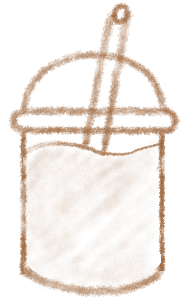
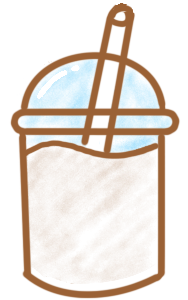
added ice

Changed region(s): [[0.0532, 0.0, 0.9574, 1.0]]

diff --git a/main.py b/main.py
@@ -131,9 +131,10 @@ async def main():
         return total
 
     def draw_hand_preview(preview=None, show_info=True):
-        # webcam preview (top right by default) with the tracked hands drawn on top
+        # webcam preview (left side, under the money, by default) with the tracked hands drawn on top
+        # kept on the left so it never covers the cups, the C note or the tea jars on the right
         if preview is None:
-            preview = pygame.Rect(SCREEN_WIDTH - 340, 16, 320, 240)
+            preview = pygame.Rect(20, 104, 256, 192)
         pygame.draw.rect(screen, (148, 90, 45), preview.inflate(10, 10), border_radius=12)
         screen.blit(pygame.transform.scale(camera_image, preview.size), preview)
         scale_x = preview.width / camera_size[0]
@@ -159,7 +160,7 @@ async def main():
             return
 
         # what the number picks + hold progress bar, under the preview
-        info = pygame.Rect(preview.left - 5, preview.bottom + 10, preview.width + 10, 64)
+        info = pygame.Rect(preview.left - 5, preview.bottom + 12, 430, 60)
         pygame.draw.rect(screen, (255, 250, 238), info, border_radius=10)
         pygame.draw.rect(screen, (148, 90, 45), info, 3, border_radius=10)
         if picking_toppings():
@@ -175,7 +176,7 @@ async def main():
             text = "toppings done! serve [S]"
         else:
             text = "waiting for a customer..."
-        label = key_font.render(text, True, (110, 62, 30))
+        label = tag_font.render(text, True, (110, 62, 30))
         screen.blit(label, label.get_rect(midtop=(info.centerx, info.top + 8)))
         bar = pygame.Rect(info.left + 14, info.bottom - 22, info.width - 28, 12)
         pygame.draw.rect(screen, (230, 215, 190), bar, border_radius=6)
@@ -219,9 +220,11 @@ async def main():
         # happy = right base + right toppings in the right order
         # meh   = right base, but toppings in the wrong order (or only some toppings right)
         # angry = wrong base, or none of the toppings right
+        # ice: getting ice wrong turns a perfect drink into "meh"
         correct_base = selected_base == current_base
+        correct_ice = ice_added == current_ice
         if correct_base and selected_toppings == current_order:
-            return "happy"
+            return "happy" if correct_ice else "meh"
         if correct_base and set(selected_toppings) == set(current_order):
             return "meh"
         if correct_base and any(name in current_order for name in selected_toppings):
@@ -234,9 +237,9 @@ async def main():
 
     def serve_drink():
         # MONEY ONLY CHANGES HERE: happy = full price, meh = half, angry = you lose half (wasted ingredients)
-        nonlocal money, customer_reacting, reaction_timer, last_mood, money_popup_text, money_popup_timer, status
+        nonlocal money, customer_reacting, reaction_timer, last_mood, money_popup_text, money_popup_timer
         nonlocal cup_shown, selected_base, served_base, served_toppings, served_timer
-        nonlocal won
+        nonlocal ice_added, served_ice
         last_mood = get_mood()
         total = order_total()
         if last_mood == "happy":
@@ -247,8 +250,6 @@ async def main():
         else:
             change = -(total // 2)
         money += change
-        if money >= 100:
-            won = True
         money_popup_text = ("+$" if change >= 0 else "-$") + str(abs(change))
         money_popup_timer = 0
         customer.image = CUSTOMERS[customer.name].get(last_mood, CUSTOMERS[customer.name]["default"])
@@ -257,10 +258,12 @@ async def main():
         # the drink is handed over: it leaves the counter, press C for a new cup
         served_base = selected_base
         served_toppings = list(selected_toppings)
+        served_ice = ice_added
         served_timer = 0
         cup_shown = False
         selected_base = None
         selected_toppings.clear()
+        ice_added = False
 
     def draw_ui_button(name, rect, text, key_text, fill, text_colour, mouse_pos):
         # rounded button with a drop shadow, lifts and brightens a little on hover
@@ -346,7 +349,7 @@ async def main():
         t -= 2.625 / 2.75
         return 7.5625 * t * t + 0.984375
 
-    def draw_cup(base, cup_toppings, bottom_middle, size, alpha):
+    def draw_cup(base, cup_toppings, bottom_middle, size, alpha, ice=False):
         # one cup with its base and toppings, plus a soft shadow so it stands out from the board
         picture = cup_image if base is None else BASES[base]["image"]
         width = max(1, int(picture.get_width() * size))
@@ -362,10 +365,40 @@ async def main():
                 t = (pygame.time.get_ticks() - topping_drop_start[name]) / 600
                 drop = int((1 - ease_out_bounce(t)) * 110)
             layers.append((TOPPINGS[name]["image"], drop))
+        if ice:
+            # ice drops in last, on top, with the same bounce
+            t = (pygame.time.get_ticks() - ice_drop_start) / 600
+            layers.append((ice_image, int((1 - ease_out_bounce(t)) * 110)))
         for image, drop in layers:
             scaled = pygame.transform.smoothscale(image, (max(1, int(image.get_width() * size)), max(1, int(image.get_height() * size))))
             scaled.set_alpha(alpha)
             screen.blit(scaled, scaled.get_rect(midbottom=(bottom_middle[0], bottom_middle[1] - drop)))
+
+    def get_cup():
+        # C key or clicking the cup stacks
+        nonlocal cup_shown, cup_timer
+        if not cup_shown:
+            cup_shown = True
+            cup_timer = 0
+
+    def toggle_ice():
+        # I key or clicking the ice bucket: adds ice, or takes it back out if it's already in
+        nonlocal ice_added, ice_drop_start
+        if cup_shown:
+            ice_added = not ice_added
+            ice_drop_start = pygame.time.get_ticks()
+
+    def draw_counter_highlight(zone, text, mouse_pos):
+        # same soft highlight as the base jars, with the name + key above
+        if zone.collidepoint(mouse_pos):
+            highlight = pygame.Surface(zone.size, pygame.SRCALPHA)
+            pygame.draw.rect(highlight, (255, 255, 255, 70), highlight.get_rect(), border_radius=14)
+            screen.blit(highlight, zone)
+            pygame.draw.rect(screen, (148, 90, 45), zone, 3, border_radius=14)
+            label = tag_font.render(text, True, (255, 250, 238))
+            tag = label.get_rect(midbottom=(zone.centerx, zone.top - 8)).inflate(16, 8)
+            pygame.draw.rect(screen, (148, 90, 45), tag, border_radius=8)
+            screen.blit(label, label.get_rect(center=tag.center))
 
     def dialogue_done_typing():
         return dialogue_timer * TYPE_SPEED >= len(dialogue_text)
@@ -431,6 +464,8 @@ async def main():
                 lines.append((str(number) + ". " + TOPPING_NAMES[name], False))
         else:
             lines.append(("none", False))
+        lines.append(("------- Ice -------", True))
+        lines.append(("with ice" if current_ice else "no ice", False))
         lines.append(("------ Total ------", True))
         lines.append(("$" + str(order_total()), False))
         line_height = receipt_font.get_linesize()
@@ -488,7 +523,7 @@ async def main():
         label.set_alpha(alpha)
         screen.blit(label, label.get_rect(center=(rect.centerx - 4, rect.centery - 4)))
 
-    # STORY FLOW cutscene frames -> tutorial -> game
+    # STORY FLOW (Sophia): cutscene frames -> tutorial (placeholder) -> game
     def next_story_screen():
         nonlocal status, cutscene_index
         if status == "tutorial":
@@ -518,10 +553,11 @@ async def main():
         return random.sample(available_toppings, number)    # the order of this list matters
 
     def new_customer():
-        nonlocal customer, current_order, current_base, selected_base
+        nonlocal customer, current_order, current_base, selected_base, current_ice
 
         name = random.choice(list(CUSTOMERS.keys()))
         current_base = random.choice(list(BASES.keys()))
+        current_ice = random.choice([True, False])     # ICE (Sophia): with ice or no ice
         selected_base = None
         current_order = generate_order()
         customer = Customer(name, current_order, current_base)
@@ -559,8 +595,9 @@ async def main():
             print("New topping unlocked:", new_topping)
 
     def clear_drink():
-        nonlocal selected_base, cup_timer
+        nonlocal selected_base, cup_timer, ice_added
         selected_base = None
+        ice_added = False
         selected_toppings.clear()
         cup_timer = 350
 
@@ -631,7 +668,7 @@ async def main():
     customer_reacting = False
     reaction_timer = 0
 
-    cutscene = [pygame.image.load("assets/ui/cutscene_frame1.png"), pygame.image.load("assets/ui/cutscene_frame2.png"), pygame.image.load("assets/ui/cutscene_frame3.png")]
+    cutscene = [pygame.image.load("assets/ui/cutscene_frame1.png"), pygame.image.load("assets/ui/cutscene_frame2.png")]
     cutscene_index = 0
 
     # MAIN SCREEN BACKGROUND (Sophia)
@@ -668,6 +705,19 @@ async def main():
         "milktea": pygame.Rect(1170, 430, 105, 160),   # brown jar
     }
     selected_base = None     # None = empty cup
+
+    # ICE (Sophia): customers ask for ice or no ice
+    ice_image = pygame.image.load("assets/ice.png").convert_alpha()
+    ice_added = False        # is there ice in the cup right now
+    current_ice = False      # does the customer want ice
+    served_ice = False
+    ice_drop_start = 0
+    ICE_LINES = ["With ice, please!", "Oh, and lots of ice!", "Ice please!"]
+    NO_ICE_LINES = ["No ice, please!", "Oh, and no ice!", "Hold the ice!"]
+
+    # CUPS + ICE BUTTONS (Sophia): click the cup stacks or the ice bucket (same as C / I)
+    CUP_STACK_ZONE = pygame.Rect(920, 318, 150, 132)
+    ICE_ZONE = pygame.Rect(725, 400, 158, 150)
 
     # TOPPING BUTTONS (Sophia): the 4 x 2 jars on the left of the background
     TOPPING_ZONES = {
@@ -768,8 +818,6 @@ async def main():
     serve_button = pygame.Rect(980, 600, 200, 70)
     clear_button = pygame.Rect(760, 600, 200, 70)
 
-    won = False
-
     running = True
 
     while running:
@@ -801,8 +849,10 @@ async def main():
                     clear_drink()
                 elif event.key == K_c and status == "game":
                     # EMPTY CUP (Sophia)
-                    cup_shown = True
-                    cup_timer = 0
+                    get_cup()
+                elif event.key == K_i and status == "game" and customer is not None and not customer_reacting:
+                    # ICE (Sophia)
+                    toggle_ice()
             elif event.type == MOUSEBUTTONDOWN:
                 if status == "mode_select":
                     if browser_button.collidepoint(event.pos):
@@ -827,12 +877,17 @@ async def main():
                             dialogue_visible = False
                         else:
                             advance_dialogue()
+                    elif CUP_STACK_ZONE.collidepoint(event.pos):
+                        # cups can be grabbed any time, like the C key
+                        get_cup()
                     elif customer is not None and not customer_reacting:
                         if serve_button.collidepoint(event.pos):
                             serve_drink()
                         elif clear_button.collidepoint(event.pos):
                             if cup_shown:
                                 clear_drink()
+                        elif ICE_ZONE.collidepoint(event.pos):
+                            toggle_ice()
                         elif cup_shown:
                             # BASES: click a jar to fill the cup
                             for base_name, zone in BASE_ZONES.items():
@@ -942,12 +997,8 @@ async def main():
                     customer = None
                     customer_reacting = False
                     reaction_timer = 0
-
-                    if won:
-                        status = "end"
-                    else:
-                        customer_timer = 0
-                        next_customer_time = random.randint(3000, 7000)
+                    customer_timer = 0
+                    next_customer_time = random.randint(3000, 7000)
 
             # DRAW CUSTOMER
             if customer is not None:
@@ -957,13 +1008,13 @@ async def main():
             if cup_shown:
                 cup_timer += dt
                 size = max(0.01, ease_out_back(cup_timer / 350)) * CUP_SCALE
-                draw_cup(selected_base, selected_toppings, CUP_POS, size, 255)
+                draw_cup(selected_base, selected_toppings, CUP_POS, size, 255, ice_added)
 
             # SERVED DRINK: slides up toward the customer and fades out
             served_timer += dt
             if served_timer < 450:
                 t = served_timer / 450
-                draw_cup(served_base, served_toppings, (CUP_POS[0], CUP_POS[1] - int(t * 120)), CUP_SCALE, int(255 * (1 - t)))
+                draw_cup(served_base, served_toppings, (CUP_POS[0], CUP_POS[1] - int(t * 120)), CUP_SCALE, int(255 * (1 - t)), served_ice)
 
             # BASES (Sophia): hover highlight on the jars (temporary look)
             mouse_pos = pygame.mouse.get_pos()
@@ -976,11 +1027,20 @@ async def main():
                     base_label = font.render(base_name, True, (148, 90, 45))
                     screen.blit(base_label, base_label.get_rect(midbottom=(zone.centerx, zone.top - 4)))
 
+            # CUPS + ICE (Sophia): clickable, same as C and I
+            draw_counter_highlight(CUP_STACK_ZONE, "cups [C]", mouse_pos)
+            draw_counter_highlight(ICE_ZONE, ("remove ice [I]" if ice_added else "ice [I]"), mouse_pos)
+
             # TOPPING BUTTONS (Sophia)
             draw_topping_buttons(mouse_pos)
 
             # KEY HINTS (Sophia)
             for letter, pos in KEY_HINTS.items():
+                # hide the floating note while its thing is hovered (the hover tag shows the key instead)
+                if letter == "C" and CUP_STACK_ZONE.collidepoint(mouse_pos):
+                    continue
+                if letter == "I" and ICE_ZONE.collidepoint(mouse_pos):
+                    continue
                 draw_key_hint(letter, pos)
 
             # SERVE + CLEAR BUTTONS
@@ -1023,6 +1083,7 @@ async def main():
                 dialogue_text = ""
                 if customer.name in CUSTOMER_DIALOGUE:
                     dialogue_text = fill_in_dialogue(random.choice(CUSTOMER_DIALOGUE[customer.name]["order"]))
+                    dialogue_text += " " + random.choice(ICE_LINES if current_ice else NO_ICE_LINES)
 
             # drink was served: switch to a reaction line (mood was worked out in serve_drink)
             if customer is not None and customer_reacting and not reaction_given:
@@ -1055,26 +1116,6 @@ async def main():
             if abs(money - displayed_money) < 0.5:
                 displayed_money = money
             draw_money()
-        
-        elif status == "end":
-            # END SCREEN
-            screen.blit(main_screen, (0, 0))
-
-            # Dark overlay
-            overlay = pygame.Surface((SCREEN_WIDTH, SCREEN_HEIGHT), pygame.SRCALPHA)
-            overlay.fill((30, 25, 20, 180))
-            screen.blit(overlay, (0, 0))
-
-            # Victory message
-            win_title = button_font.render("YOU DID IT!", True, (255, 240, 190))
-            win_text = font.render("You earned $100!", True, (255, 255, 255))
-            money_text = button_font.render("$" + str(money), True, (180, 220, 150))
-            exit_text = font.render("Press ESC to quit", True, (255, 255, 255))
-
-            screen.blit(win_title, win_title.get_rect(center=(640, 230)))
-            screen.blit(win_text, win_text.get_rect(center=(640, 330)))
-            screen.blit(money_text, money_text.get_rect(center=(640, 420)))
-            screen.blit(exit_text, exit_text.get_rect(center=(640, 550)))
 
         # SCREEN TRANSITIONS: old screen fades out over the new one
         if transition_snapshot is not None:
